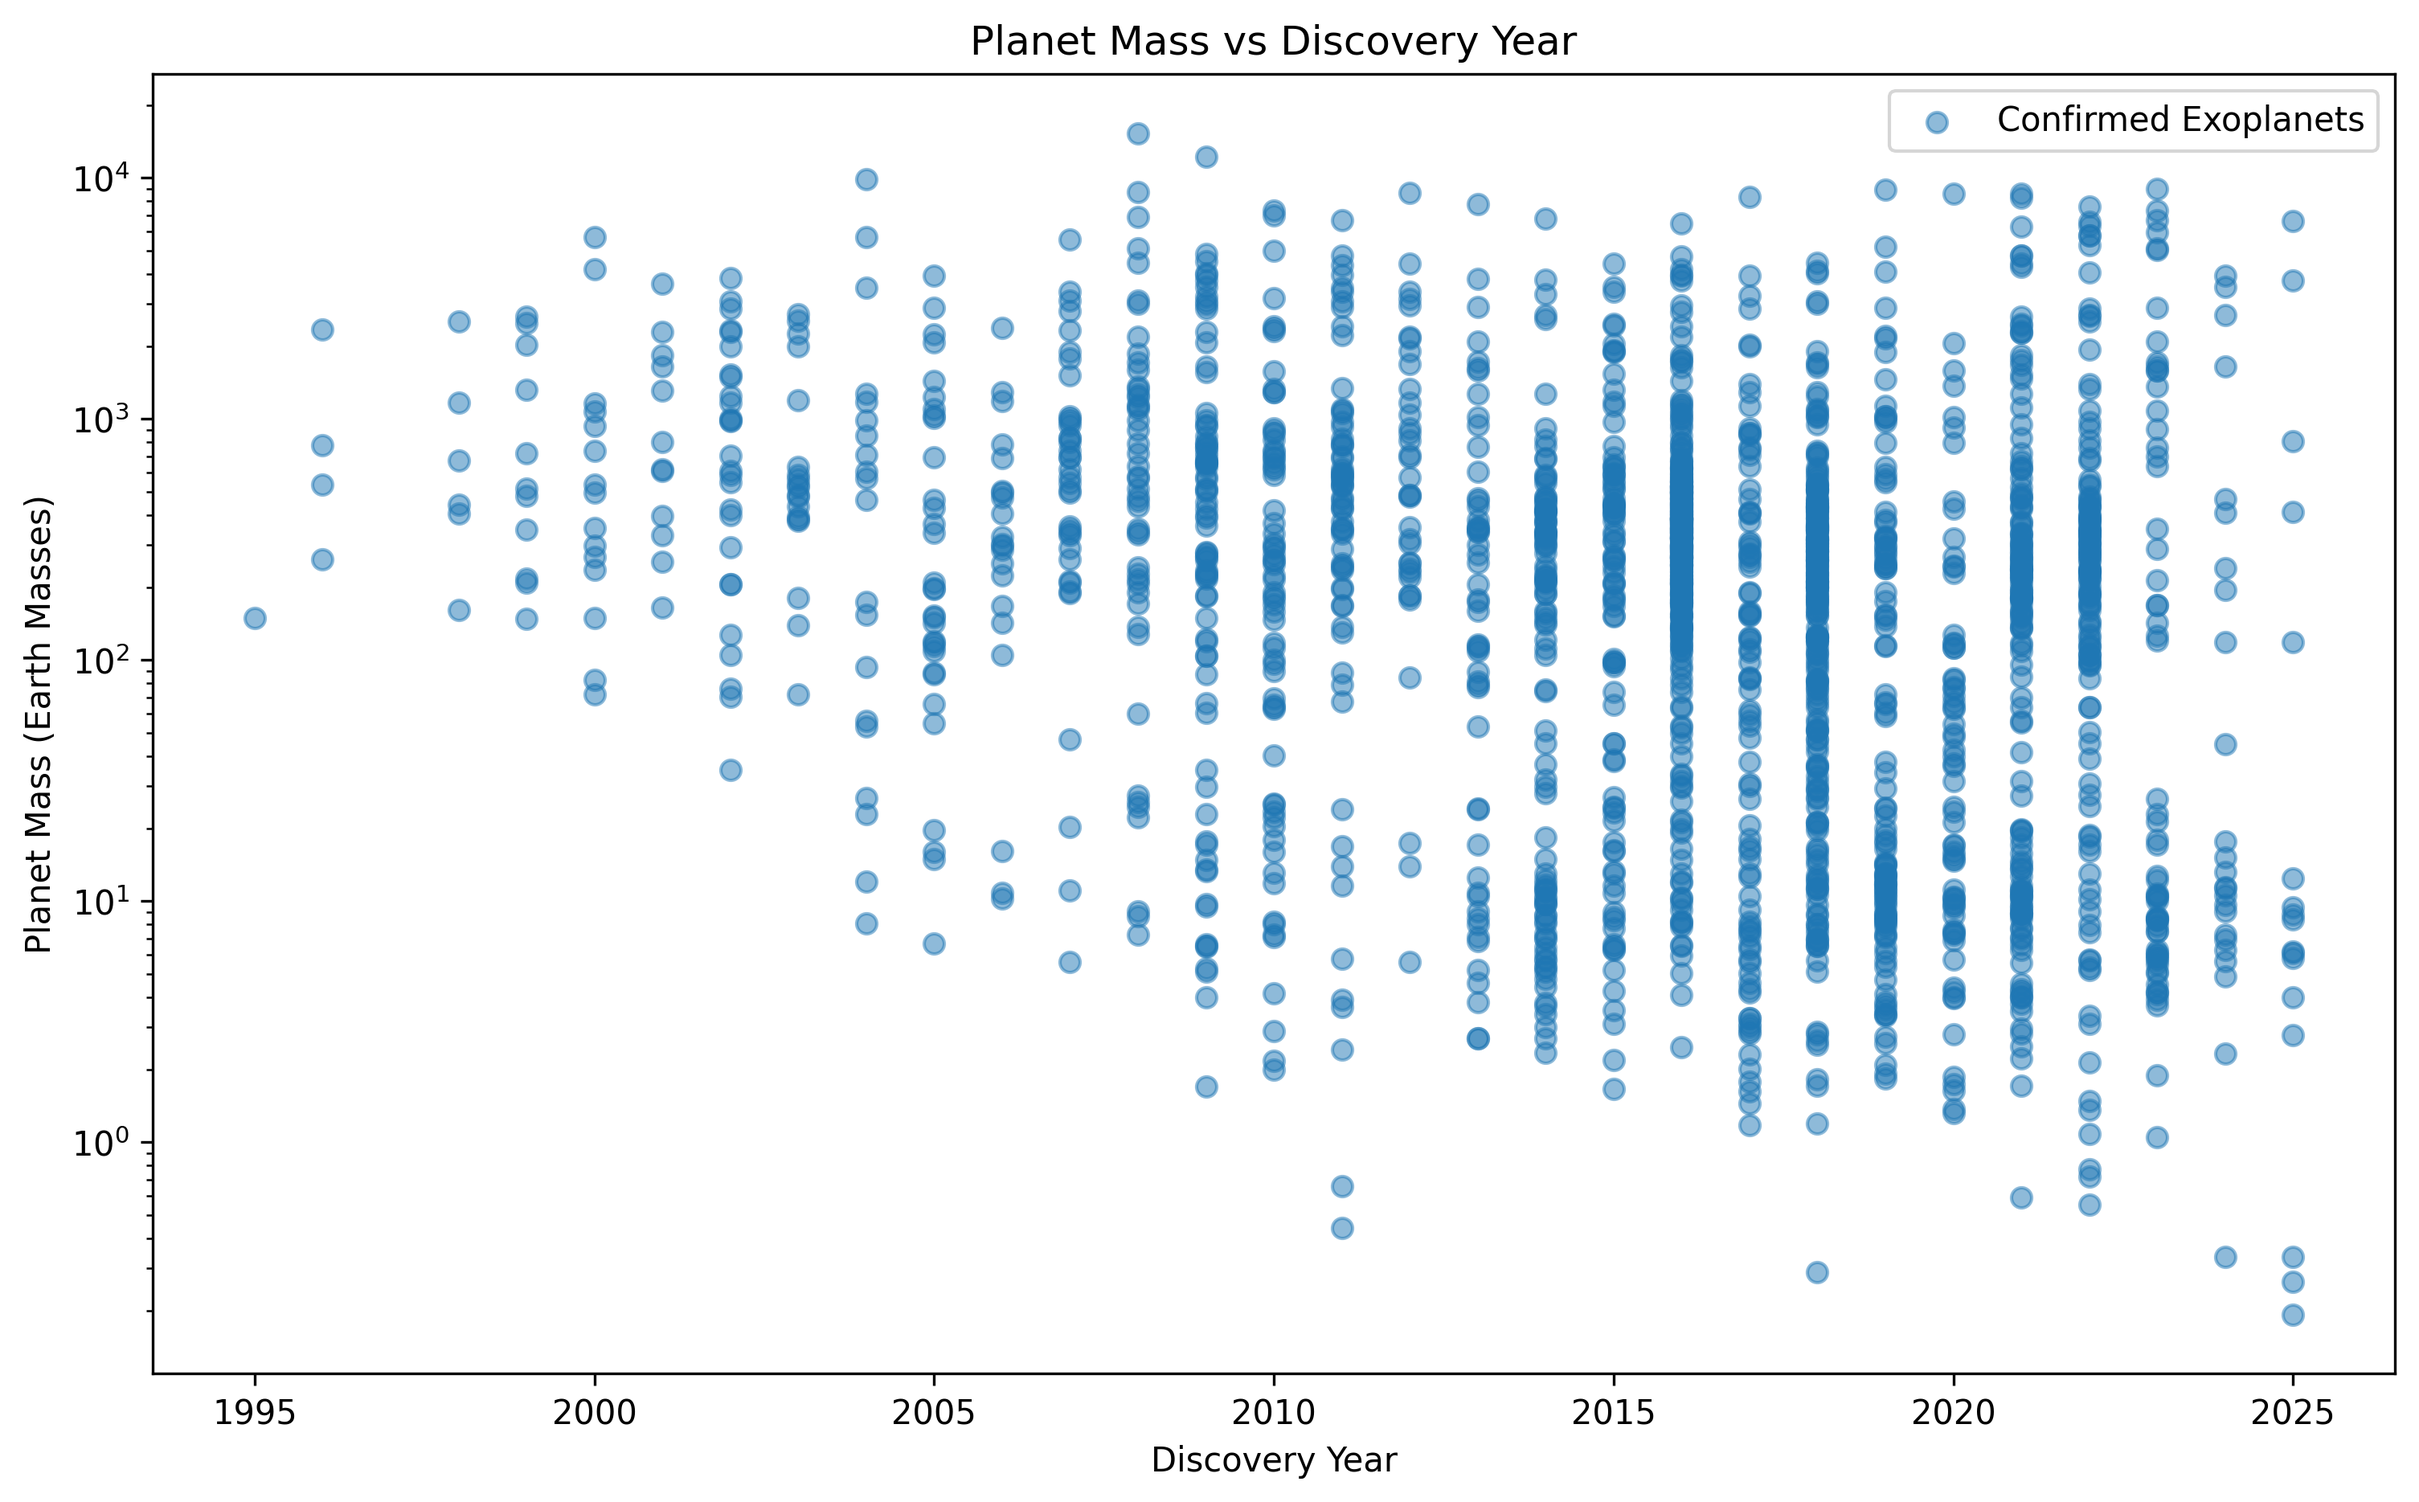
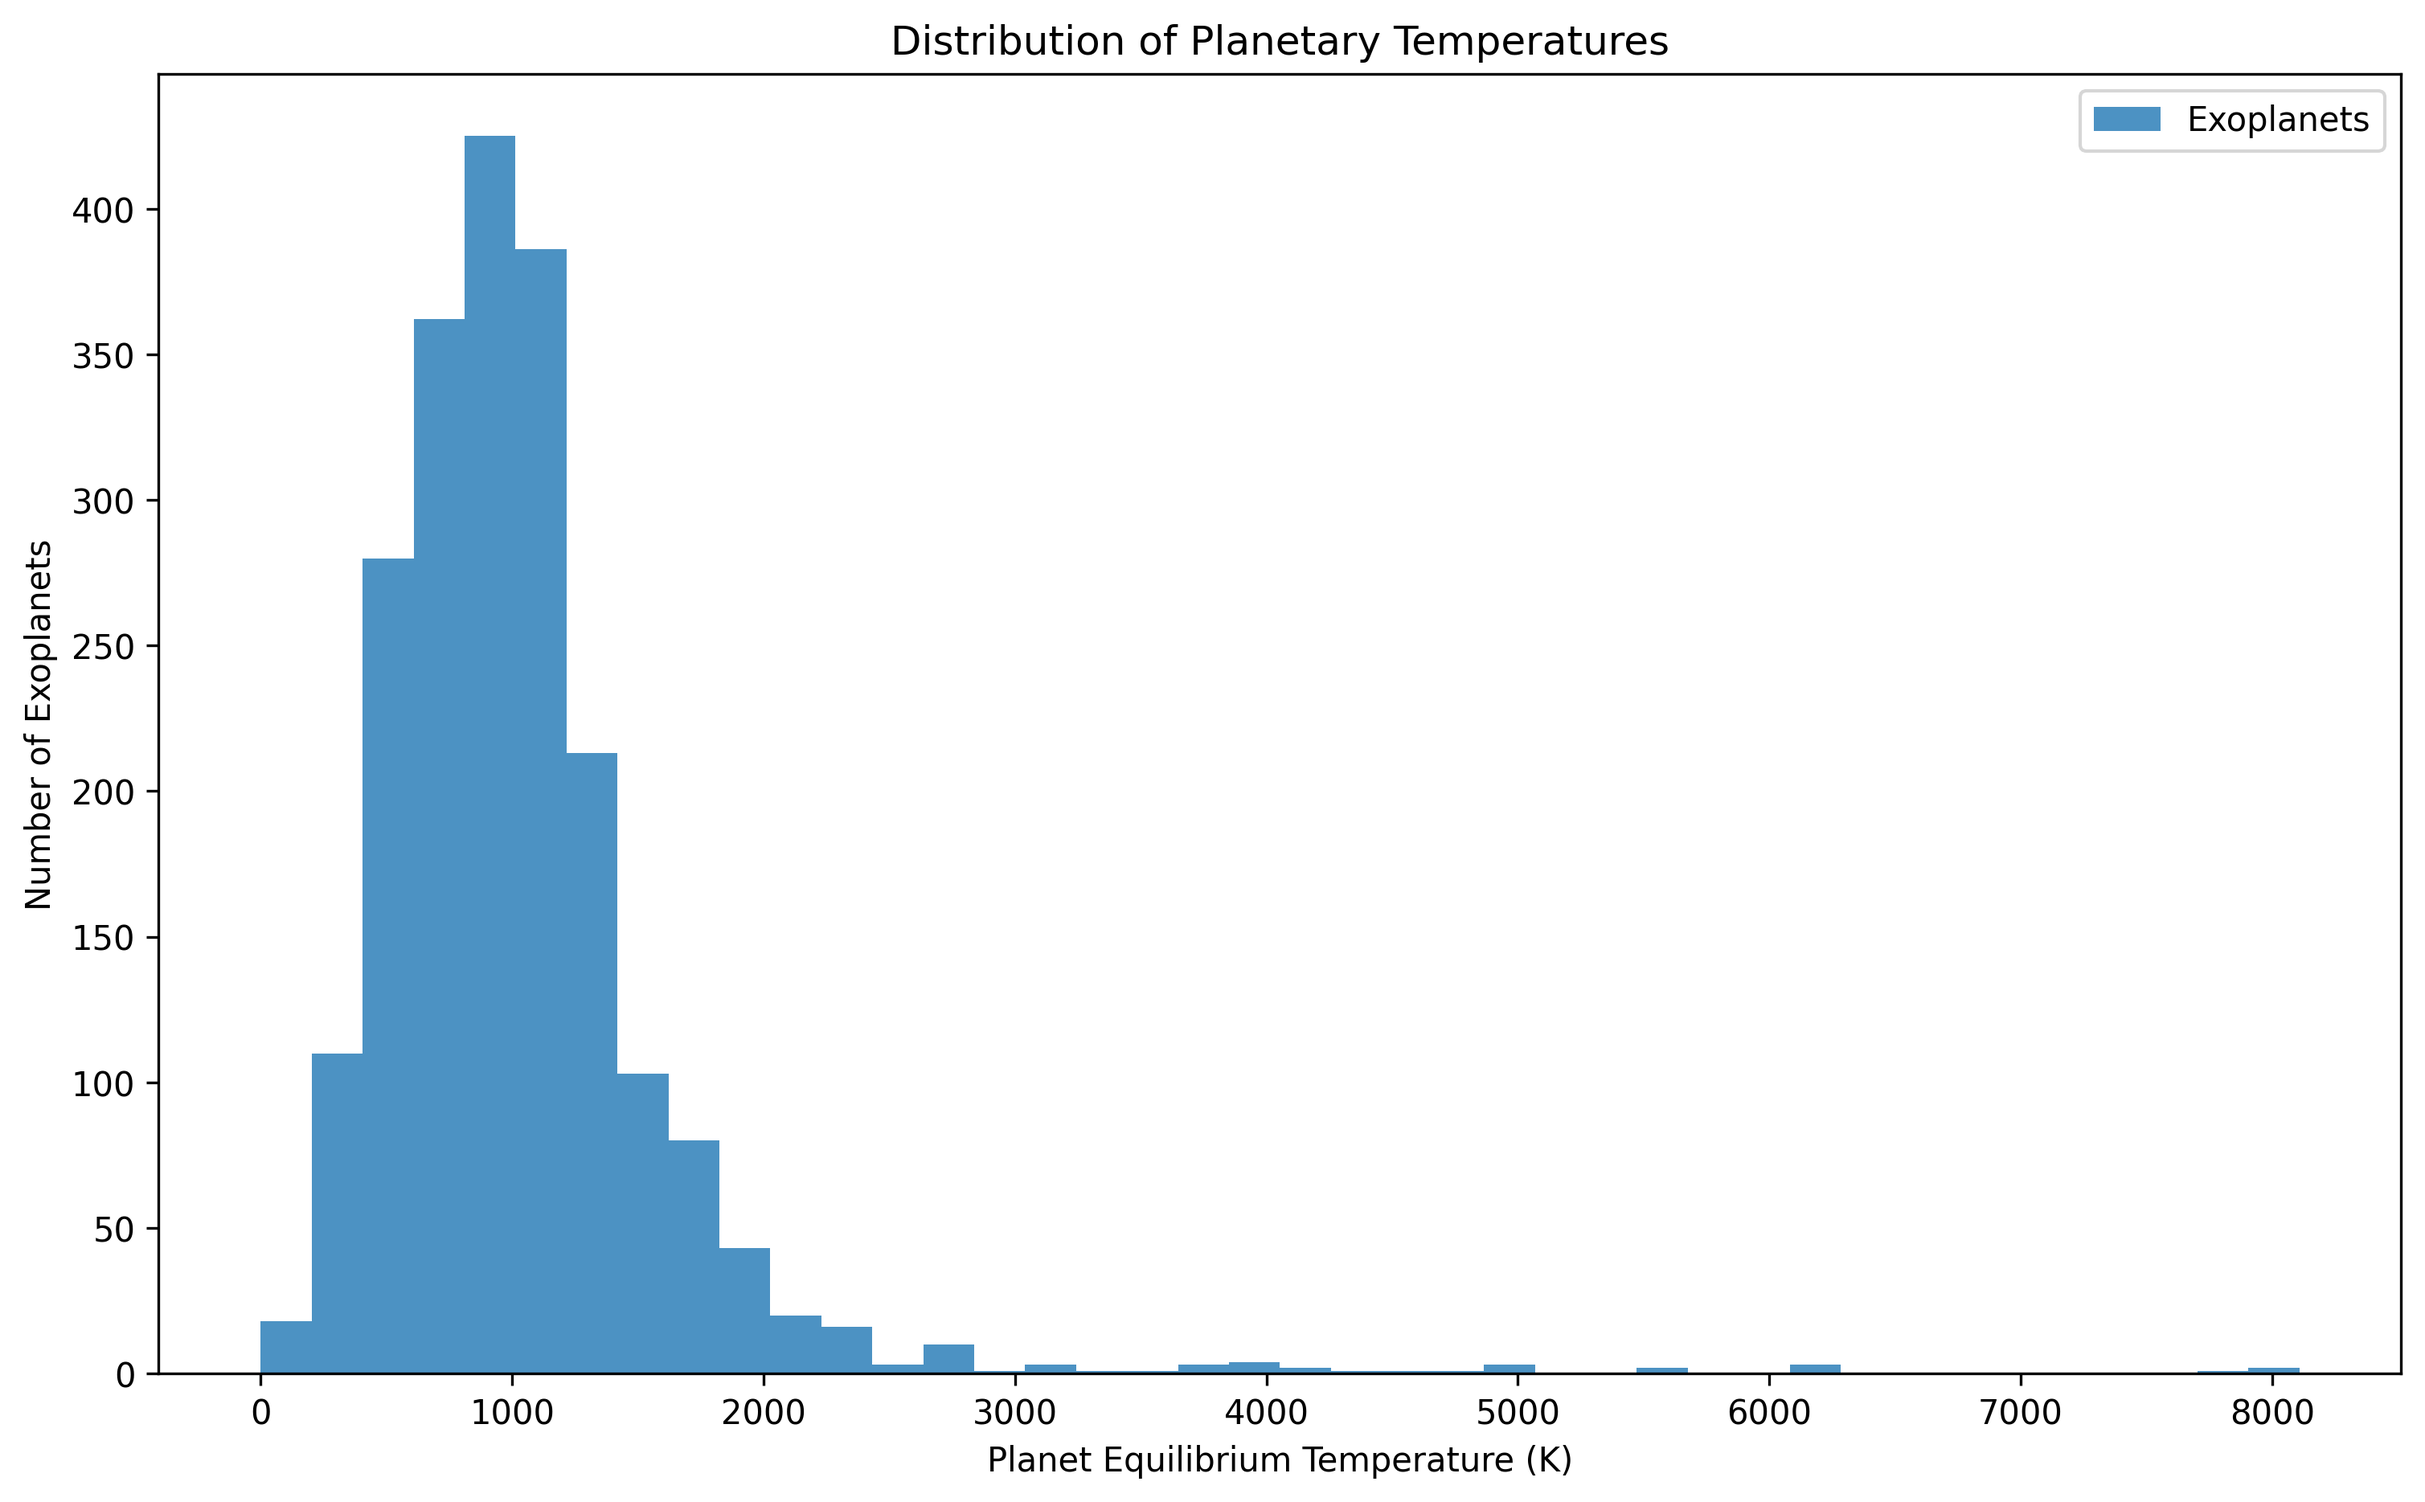
final changes

diff --git a/research_report/exoplanet_report.html b/research_report/exoplanet_report.html
@@ -155,7 +155,7 @@ html {
 
 <p>
 Generated automatically using Python on:
-2026/05/25 13:38:12
+2026/06/03 13:03:36
 </p>
 
 <div class="section">
@@ -165,6 +165,18 @@ Generated automatically using Python on:
 This report presents a comprehensive computational analysis of the NASA Exoplanet Archive using modern data science and machine learning methodologies. The study investigates dataset completeness, observational biases, duplicate archival structures, imputation strategies, dimensionality reduction, clustering behaviour, predictive modelling performance, explainable AI interpretations, and anomaly detection. The resulting pipeline demonstrates how astrophysical datasets can be transformed into scientifically interpretable machine learning frameworks while preserving physical realism and statistical integrity. 
 </p>
 
+</div>
+
+<div style="
+background: #fff3cd;
+border: 1px solid #ffe69c;
+padding: 15px;
+margin-bottom: 25px;
+border-radius: 8px;
+font-weight: bold;
+color: #664d03;
+">
+Note: This HTML report is to assist with visual inspection of results and figures during development. It is not the report submitted for assessment. The submitted document is the separate PDF report prepared according to the assignment requirements, NOT THIS ONE. 
 </div>
 
 <!-- DATASET SUMMARY --> 
@@ -633,10 +645,8 @@ Figure: Column completeness distribution across all dataset features. Variables 
 </div>
 
 <p>
-The dataset exhibits substantial variability in completeness across features and discovery techniques.
-Transit based detections generally contain richer radius and orbital measurements, while direct imaging 
-records display sparser orbital information. These patterns highlight the observational biases inherent 
-in exoplanet detection methods.
+Exoplanet discoveries have become increasingly information-rich over time, reflecting advances in telescope sensitivity, 
+data processing techniques and archive standardisation.
 </p>
 
 </div>
@@ -921,10 +931,12 @@ Figure: Comparative reconstruction performance of median, KNN, and iterative imp
 </table>
 
 <p>
-Multiple imputation strategies were benchmarked using reconstruction
-error, correlation preservation, and downstream machine learning 
-performance. The selected imputation strategy achieved the strongest
-balance between numerical accuracy and structural preservation.
+No single imputation method dominated all evaluation criteria. 
+Iterative imputation achieved the lowest reconstruction error, 
+while KNN better preserved feature relationships and produced 
+marginally stronger predictive performance. This highlights the 
+trade-off between statistical recovery and downstream modelling 
+objectives.
 </p>
 
 </div>
@@ -981,7 +993,7 @@ Figure: Correlation heatmap of numerical astrophysical variables within the proc
 <img src="figures/simple_plot.png">
 
 <div class="caption">
-Figure: Planetary mass distribution across discovery years shown on a logarithmic scale. The visualisation highlights the increasing diversity of detected exoplanets as observational capabilities improved over time.
+Figure: Distribution of planetary equilibrium temperatures within the NASA Exoplanet Archive. The histogram illustrates how exoplanets are concentrated within particular temperature ranges and highlights the presence of extreme thermal environments.
 </div>
 
 <img src="figures/multi_variable_scatter_plot.png">
@@ -991,10 +1003,7 @@ Figure: Multi-variable relationship between stellar temperature and planetary eq
 </div>
 
 <p>
-Statistical analysis reveals substantial heterogeneity across exoplanet
-populations. Strong relationships emerge between stellar temperature, 
-planetary equilibrium temperature, and orbital properties, 
-suggesting physically meaningful structure within the dataset.
+A statistically significant moderate positive relationship was observed between stellar temperature and planetary equilibrium temperature (r = 0.401, p < 0.001).
 </p>
 
 </div>
@@ -1026,10 +1035,8 @@ Figure: Principal Component Analysis projection of the exoplanet feature space. 
 </div>
 
 <p>
-Principal Component Analysis compresses the high-dimensional feature 
-space into lower-dimensional representations while preserving major 
-variance structures. The resulting projection demonstrates broad 
-planetary groupings and continuous astrophysical gradients.
+PCA reveals that a relatively small number of principal components capture much of the variance within the dataset, 
+while several extreme planetary systems appear as clear outliers.
 </p>
 
 </div>
@@ -1130,10 +1137,7 @@ Figure: K-Means clustering results visualised within the t-SNE embedded feature 
 </div>
 
 <p>
-K-Means clustering identifies several major exoplanet population
-groups within the transformed feature space. These clusters may 
-correspond to astrophysical subclasses characterised by differences
-in planetary mass, orbital structure, and stellar environment. 
+The exoplanet population naturally separates into a small number of broad groups, with clustering quality deteriorating substantially beyond four clusters.
 </p>
 
 </div>
@@ -1188,9 +1192,9 @@ Model accuracy was evaluated using Mean Absolute Error (MAE), Root Mean
 Squared Error (RMSE), and the coefficient of determination (R²). The
 RMSE metric provides additional insight into the magnitude of larger
 prediction errors because it penalises large deviations more heavily
-than MAE. Feature importance analysis indicates that stellar
-temperature and orbital distance contribute most strongly to predictive
-accuracy.
+than MAE. Feature importance analysis indicates that Stellar temperature 
+and planetary mass emerged as the strongest predictors of planetary 
+equilibrium temperature, with orbital distance also contributing substantially.
 </p>
 
 </div>
@@ -1209,7 +1213,9 @@ Figure: SHAP summary plot illustrating feature contributions to XGBoost model pr
 SHAP analysis provides interpretable explanations for model predictions 
 by quantifying the contribution of each feature across observations. 
 The results confirm that astrophysically meaningful variables dominate 
-model behaviour and influence predictive outcomes consistently. 
+model behaviour and influence predictive outcomes consistently.
+Stellar temperature is not only important on average, but also drives 
+the largest individual prediction shifts.
 </p>
 
 </div>
@@ -1225,15 +1231,24 @@ Figure: Isolation Forest anomaly detection results visualised within the reduced
 </div>
 
 <p>
-Isolation Forest analysis identifies rare or extreme exoplanetary 
-configurations that deviate significantly from the broader population.
-These anomalies may represent scientifically interesting outliers, 
-measurement artefacts, or potentially novel astrophysical systems.
+Outliers are not randomly distributed throughout the feature space but 
+appear concentrated within specific astrophysical regimes, indicating 
+potentially unusual planetary systems rather than random measurement noise.
 </p>
 
 <h3>Overall Findings</h3> 
 <p>
-This investigations demonstrated that modern data science techniques can successfully extract meaningful insights from large-scale exoplanet archives. Strong relationships were observed between stellar and planetary properties, while dimensionality reduction and clustering techniques revealed distinct structures within the exoplanet population. Predictive modelling achieved strong performance when estimating planetary equilibrium temperatures, and explainable AI techniques identified the astrophysical variables most responsible for model predictions. 
+This investigations demonstrated that modern data science techniques can 
+successfully extract meaningful insights from large-scale exoplanet archives. 
+Moderate but statistically significant relationships were observed between stellar 
+and planetary properties, while dimensionality reduction and clustering techniques 
+revealed distinct structures within the exoplanet population. Predictive modelling
+achieved strong performance when estimating planetary equilibrium temperatures, and 
+explainable AI techniques identified the astrophysical variables most responsible for 
+model predictions. The XGBoost model explained approximately 75% of the variance in 
+planetary equilibrium temperature, demonstrating that a relatively small set of stellar 
+and orbital features contains substantial predictive information regarding planetary 
+thermal environments.
 </p>
 
 <h3>Limitations</h3>

diff --git a/main.py b/main.py
@@ -544,16 +544,15 @@ plt.close()
 
 # Simple Plot -----------------------------------------------------
 plt.figure(figsize=(12, 7))
-plt.scatter(
-    exoplanet_df["discovery_year"],
-    exoplanet_df["planet_mass_m_e"],
-    alpha=0.5,
-    label="Confirmed Exoplanets"
+plt.hist(
+    exoplanet_df["planet_temperature_k"],
+    bins=40,
+    alpha=0.8,
+    label="Exoplanets"
 )
-plt.yscale("log")
-plt.xlabel("Discovery Year")
-plt.ylabel("Planet Mass (Earth Masses)")
-plt.title("Planet Mass vs Discovery Year")
+plt.xlabel("Planet Equilibrium Temperature (K)")
+plt.ylabel("Number of Exoplanets")
+plt.title("Distribution of Planetary Temperatures")
 plt.legend()
 plt.savefig(
     os.path.join(figures_dir, "simple_plot.png"),
@@ -1127,6 +1126,18 @@ This report presents a comprehensive computational analysis of the NASA Exoplane
 
 </div>
 
+<div style="
+background: #fff3cd;
+border: 1px solid #ffe69c;
+padding: 15px;
+margin-bottom: 25px;
+border-radius: 8px;
+font-weight: bold;
+color: #664d03;
+">
+Note: This HTML report is to assist with visual inspection of results and figures during development. It is not the report submitted for assessment. The submitted document is the separate PDF report prepared according to the assignment requirements, NOT THIS ONE. 
+</div>
+
 <!-- DATASET SUMMARY --> 
 <div class="section" id="summary">
 <h2>Dataset Summary</h2>
@@ -1286,7 +1297,7 @@ Figure: Correlation heatmap of numerical astrophysical variables within the proc
 <img src="figures/simple_plot.png">
 
 <div class="caption">
-Figure: Planetary mass distribution across discovery years shown on a logarithmic scale. The visualisation highlights the increasing diversity of detected exoplanets as observational capabilities improved over time.
+Figure: Distribution of planetary equilibrium temperatures within the NASA Exoplanet Archive. The histogram illustrates how exoplanets are concentrated within particular temperature ranges and highlights the presence of extreme thermal environments.
 </div>
 
 <img src="figures/multi_variable_scatter_plot.png">
